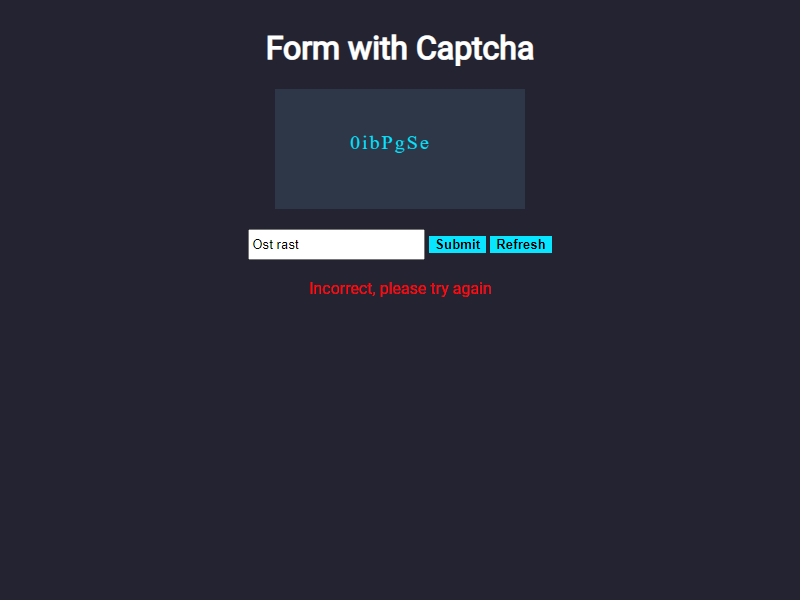
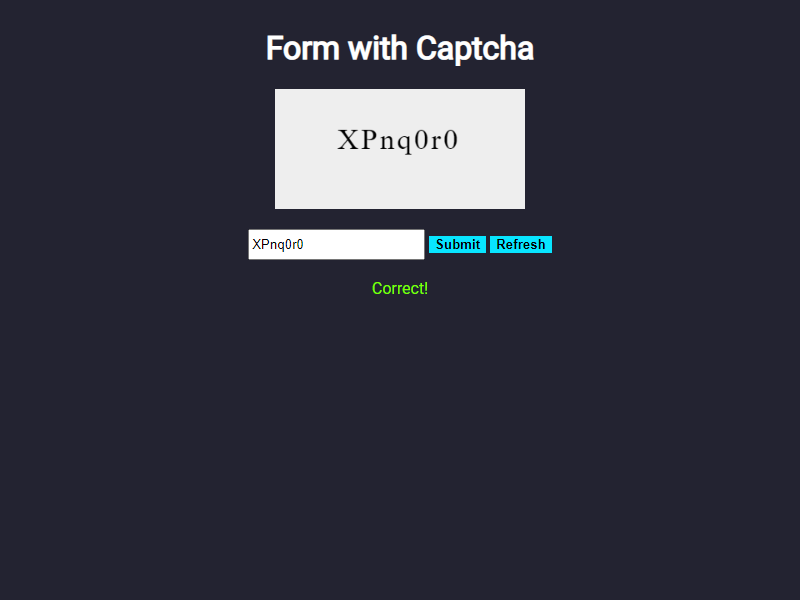
Improve captcha extraction and give more contrast to image with css and get better solutions

Changed region(s): [[0.3438, 0.15, 0.6562, 0.36], [0.375, 0.45, 0.625, 0.51], [0.3125, 0.39, 0.375, 0.42]]

diff --git a/app/captcha_extractor.py b/app/captcha_extractor.py
@@ -1,14 +1,11 @@
 #!/usr/bin/python
 from captcha_solver import resolve
-from bs4 import BeautifulSoup
 from selenium import webdriver
-from PIL import Image
-from io import BytesIO
 from selenium.webdriver.chrome.options import Options
 
 
 def extract(url='http://localhost:8000/',
-            captcha_id='captchaBackground',
+            captcha_id='captcha',
             captcha_input_xpath='//*[@id="textBox"]',
             captcha_submit_xpath='//*[@id="submitButton"]',
             captcha_output_xpath='//*[@id="output"]',
